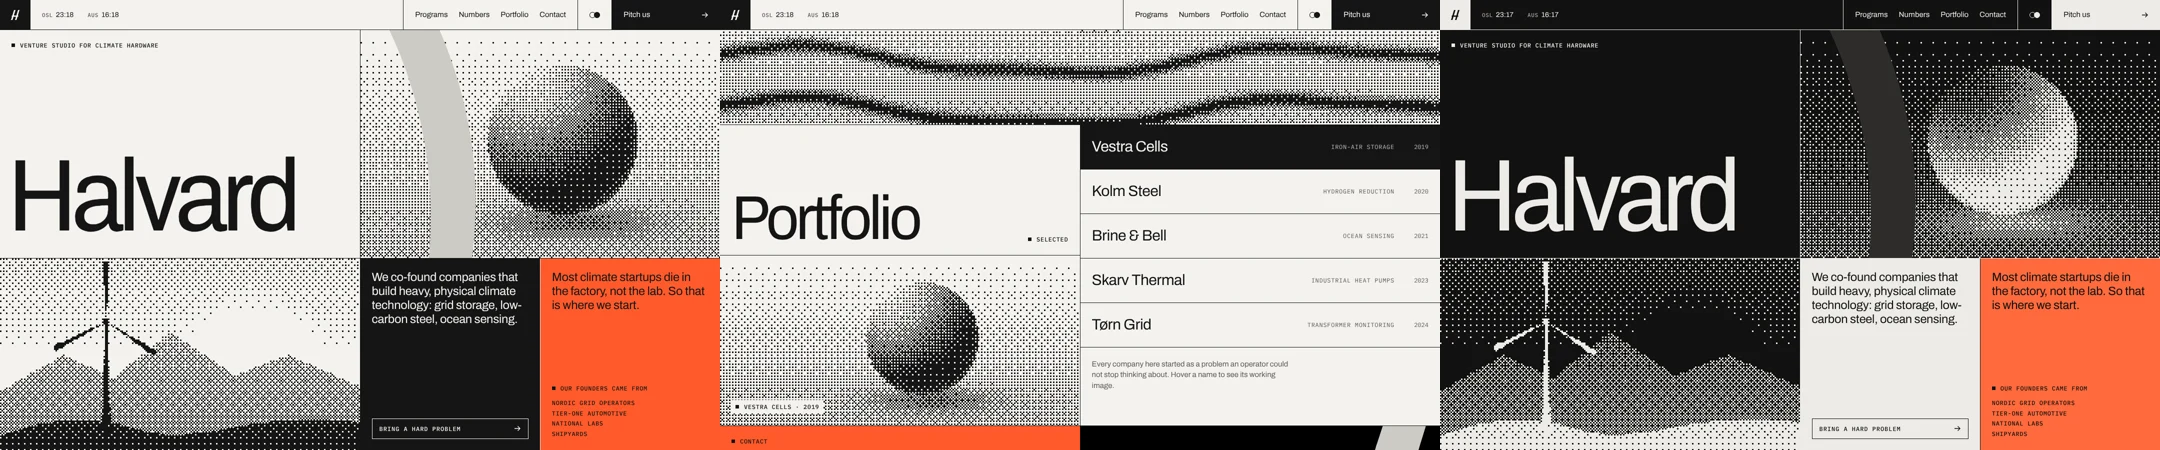
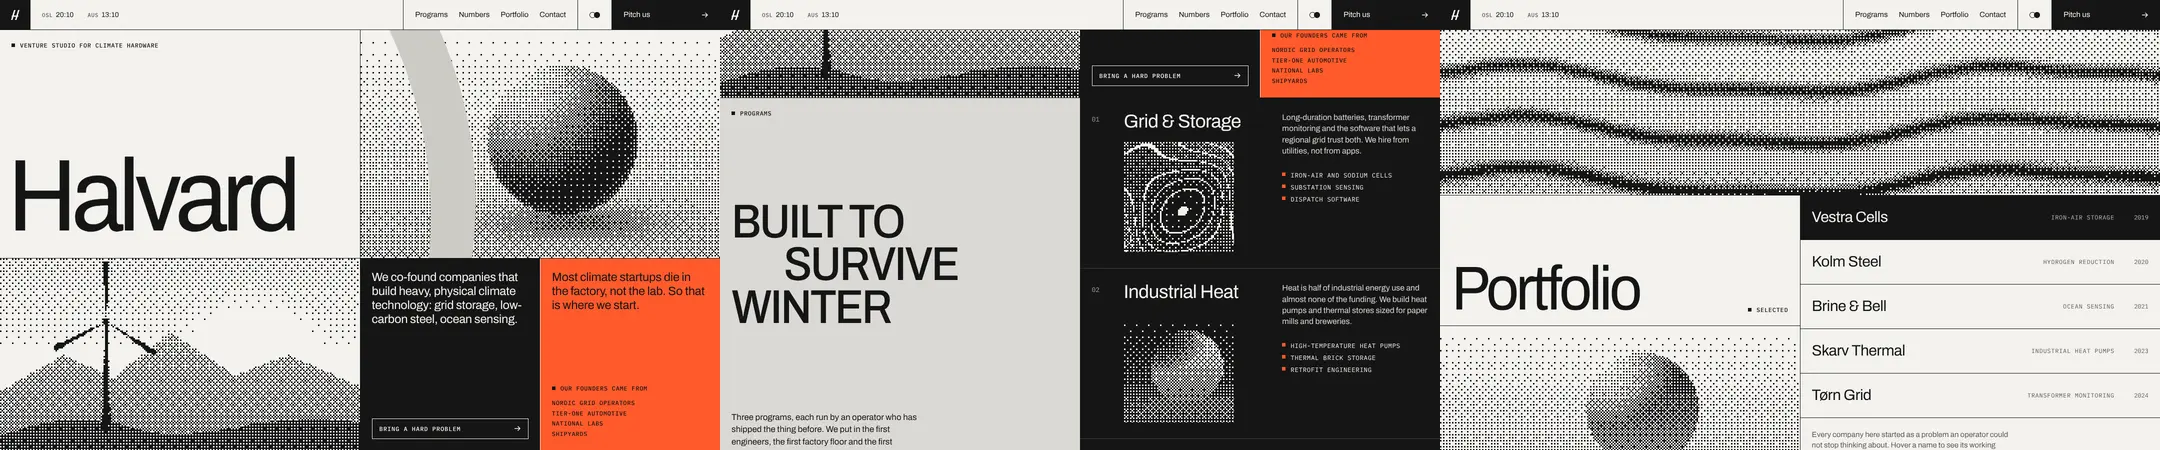
Improve dither-tile-skill: 36 → 38/40 (fallback that shows the subject)
Without canvas every tile was the same flat gray fade. A --shape mask per
field now prints dense dots on the subject (sphere, rings, swell, ridge,
dawn), so the no-JS page still reads. The ridge foreground was lifted out
of solid ink (0.04-0.16 to 0.19-0.29 luminance). SKILL.md carries the same
CSS, new notes and two new pre-flight questions.

Machine: verify-demo now loads every page under a stand-in for a host's
<body> reset and fails when any text changes color or size. It caught
the Mörkerdal dark-text bug in its old version and found the same bug in
the lesson 001 demo, fixed here. New principle: style the body, not only
the root.

Claude-Session: https://claude.ai/code/session_01XdASbRog22jE6xUYCS6WyS

diff --git a/skills/dither-tile-skill/demo/index.html b/skills/dither-tile-skill/demo/index.html
@@ -99,13 +99,23 @@
   /* ---------- Dither tile ---------- */
   .dither {
     position: relative; overflow: hidden; isolation: isolate;
-    /* No-JS / no-canvas fallback: a fading CSS halftone in the same colors */
-    background:
-      linear-gradient(to bottom, var(--paper) 0%, transparent 70%),
-      radial-gradient(circle, var(--ink) 0.8px, transparent 1.2px) 0 0 / 3px 3px;
+    /* No-JS / no-canvas fallback, part 1: a sparse halftone in the tile's own two colors */
+    background: radial-gradient(circle, currentColor 0.55px, transparent 0.85px) 0 0 / 3px 3px;
     background-color: var(--paper);
     color: var(--ink);
   }
+  /* Fallback, part 2: dense dots masked to the tile's subject, so the shape survives without canvas.
+     The canvas (z-index -1, opaque) covers all of this as soon as the engine runs. */
+  .dither::before {
+    content: ''; position: absolute; inset: 0; z-index: -2;
+    background: radial-gradient(circle, currentColor 1.15px, transparent 1.4px) 0 0 / 3px 3px;
+    -webkit-mask: var(--shape, none); mask: var(--shape, none);
+  }
+  .dither[data-field="orb"] { --shape: radial-gradient(circle closest-side at 58% 50%, #000 0 50%, rgba(0,0,0,.55) 60%, transparent 66%); }
+  .dither[data-field="swell"] { --shape: repeating-linear-gradient(176deg, transparent 0 22px, #000 28px 34px, transparent 40px 52px); }
+  .dither[data-field="contours"] { --shape: repeating-radial-gradient(circle at 46% 52%, transparent 0 9px, #000 11px 13px, transparent 15px 20px); }
+  .dither[data-field="ridge"] { --shape: linear-gradient(to bottom, transparent 0 58%, rgba(0,0,0,.6) 66%, #000 82%); }
+  .dither[data-field="dawn"] { --shape: radial-gradient(circle at 42% 66%, transparent 0 13%, rgba(0,0,0,.35) 14%, transparent 40%), linear-gradient(to bottom, transparent 0 69%, #000 71%); }
   .dither canvas {
     position: absolute; left: 0; top: 0; z-index: -1;
     image-rendering: crisp-edges; image-rendering: pixelated; /* Firefox reads the first, Chromium and Safari the second */
@@ -160,8 +170,7 @@
   .program:last-child { border-bottom: 0; }
   .program__n { font: 400 13px var(--mono); opacity: .6; padding-top: 6px; }
   .program h3 { margin: 0 0 22px; font-weight: 400; font-size: clamp(26px, 2.6vw, 38px); line-height: 1.02; letter-spacing: -.02em; }
-  .program .dither { width: min(100%, 220px); aspect-ratio: 1; background-color: var(--ink); color: var(--paper);
-    background-image: linear-gradient(to bottom, var(--ink) 0%, transparent 70%), radial-gradient(circle, var(--paper) 0.8px, transparent 1.2px); }
+  .program .dither { width: min(100%, 220px); aspect-ratio: 1; background-color: var(--ink); color: var(--paper); }
   .program p { margin: 0 0 28px; font-size: 16px; line-height: 1.4; color: color-mix(in srgb, var(--paper) 86%, transparent); }
 
   /* ---------- Numbers ---------- */
@@ -592,7 +601,7 @@ const ridgeSVG = `<svg xmlns="http://www.w3.org/2000/svg" width="800" height="60
 <defs>
 <linearGradient id="s" x1="0" y1="0" x2="0" y2="1"><stop offset="0" stop-color="#bdbdbd"/><stop offset=".6" stop-color="#f6f6f6"/></linearGradient>
 <linearGradient id="a" x1="0" y1="0" x2="0" y2="1"><stop offset="0" stop-color="#a8a8a8"/><stop offset="1" stop-color="#7a7a7a"/></linearGradient>
-<linearGradient id="b" x1="0" y1="0" x2="0" y2="1"><stop offset="0" stop-color="#2a2a2a"/><stop offset="1" stop-color="#0a0a0a"/></linearGradient>
+<linearGradient id="b" x1="0" y1="0" x2="0" y2="1"><stop offset="0" stop-color="#4a4a4a"/><stop offset="1" stop-color="#303030"/></linearGradient>
 <radialGradient id="g" cx=".5" cy=".5" r=".5"><stop offset=".35" stop-color="#fff"/><stop offset="1" stop-color="#fff" stop-opacity="0"/></radialGradient>
 </defs>
 <rect width="800" height="600" fill="url(#s)"/>

diff --git a/skills/particle-morph-skill/demo/index.html b/skills/particle-morph-skill/demo/index.html
@@ -22,7 +22,8 @@
   }
   * { box-sizing: border-box; margin: 0; }
   html { background: var(--bg); color: var(--ink); font-family: 'Geist', system-ui, sans-serif; -webkit-font-smoothing: antialiased; }
-  body { overflow-x: hidden; }
+  /* color and type on body too: a host page that styles body (an embed, an artifact viewer) must not darken the text */
+  body { overflow-x: hidden; margin: 0; color: var(--ink); font-family: 'Geist', system-ui, sans-serif; font-size: 16px; }
 
   #gl { position: fixed; inset: 0; width: 100vw; height: 100vh; display: block; pointer-events: none; }
   .fallback { position: fixed; inset: 0; background: radial-gradient(40% 40% at 60% 50%, rgba(107, 92, 255, 0.35), transparent 70%), radial-gradient(30% 30% at 55% 45%, rgba(94, 242, 194, 0.25), transparent 70%); display: none; }

diff --git a/skills/dither-tile-skill/SKILL.md b/skills/dither-tile-skill/SKILL.md
@@ -82,13 +82,23 @@ Use this skill when the brief says: "editorial", "Swiss", "technical", "engineer
 /* ---------- Dither tile ---------- */
 .dither {
   position: relative; overflow: hidden; isolation: isolate;
-  /* No-JS / no-canvas fallback: a fading CSS halftone in the same colors */
-  background:
-    linear-gradient(to bottom, var(--paper) 0%, transparent 70%),
-    radial-gradient(circle, var(--ink) 0.8px, transparent 1.2px) 0 0 / 3px 3px;
+  /* No-JS / no-canvas fallback, part 1: a sparse halftone in the tile's own two colors */
+  background: radial-gradient(circle, currentColor 0.55px, transparent 0.85px) 0 0 / 3px 3px;
   background-color: var(--paper);
   color: var(--ink);
 }
+/* Fallback, part 2: dense dots masked to the tile's subject, so the shape survives without canvas.
+   The canvas (z-index -1, opaque) covers all of this as soon as the engine runs. */
+.dither::before {
+  content: ''; position: absolute; inset: 0; z-index: -2;
+  background: radial-gradient(circle, currentColor 1.15px, transparent 1.4px) 0 0 / 3px 3px;
+  -webkit-mask: var(--shape, none); mask: var(--shape, none);
+}
+.dither[data-field="orb"] { --shape: radial-gradient(circle closest-side at 58% 50%, #000 0 50%, rgba(0,0,0,.55) 60%, transparent 66%); }
+.dither[data-field="swell"] { --shape: repeating-linear-gradient(176deg, transparent 0 22px, #000 28px 34px, transparent 40px 52px); }
+.dither[data-field="contours"] { --shape: repeating-radial-gradient(circle at 46% 52%, transparent 0 9px, #000 11px 13px, transparent 15px 20px); }
+.dither[data-field="ridge"] { --shape: linear-gradient(to bottom, transparent 0 58%, rgba(0,0,0,.6) 66%, #000 82%); }
+.dither[data-field="dawn"] { --shape: radial-gradient(circle at 42% 66%, transparent 0 13%, rgba(0,0,0,.35) 14%, transparent 40%), linear-gradient(to bottom, transparent 0 69%, #000 71%); }
 .dither canvas {
   position: absolute; left: 0; top: 0; z-index: -1;
   image-rendering: crisp-edges; image-rendering: pixelated; /* Firefox reads the first, Chromium and Safari the second */
@@ -96,13 +106,12 @@ Use this skill when the brief says: "editorial", "Swiss", "technical", "engineer
 .dither .flat { position: absolute; inset: 0; width: 100%; height: 100%; fill: var(--flat); pointer-events: none; }
 ```
 
-The fallback background is a fading CSS halftone in the same two colors. If JavaScript or the 2D context fails, the tile still looks intentional.
+Without JavaScript or a 2D context the tile still shows its subject: a sparse halftone everywhere, and dense dots masked to the field's shape (`--shape`, one line per field). A flat gray gradient would say "something failed"; a halftone sphere still says "sphere". Give every new field a `--shape` line when you add it, and look at the page once with `getContext` forced to `null`.
 
 Tiles inside dark cells set their own colors; the engine reads them, nothing else changes:
 
 ```css
-.program .dither { width: min(100%, 220px); aspect-ratio: 1; background-color: var(--ink); color: var(--paper);
-  background-image: linear-gradient(to bottom, var(--ink) 0%, transparent 70%), radial-gradient(circle, var(--paper) 0.8px, transparent 1.2px); }
+.program .dither { width: min(100%, 220px); aspect-ratio: 1; background-color: var(--ink); color: var(--paper); }
 ```
 
 ---
@@ -348,7 +357,7 @@ const ridgeSVG = `<svg xmlns="http://www.w3.org/2000/svg" width="800" height="60
 <defs>
 <linearGradient id="s" x1="0" y1="0" x2="0" y2="1"><stop offset="0" stop-color="#bdbdbd"/><stop offset=".6" stop-color="#f6f6f6"/></linearGradient>
 <linearGradient id="a" x1="0" y1="0" x2="0" y2="1"><stop offset="0" stop-color="#a8a8a8"/><stop offset="1" stop-color="#7a7a7a"/></linearGradient>
-<linearGradient id="b" x1="0" y1="0" x2="0" y2="1"><stop offset="0" stop-color="#2a2a2a"/><stop offset="1" stop-color="#0a0a0a"/></linearGradient>
+<linearGradient id="b" x1="0" y1="0" x2="0" y2="1"><stop offset="0" stop-color="#4a4a4a"/><stop offset="1" stop-color="#303030"/></linearGradient>
 <radialGradient id="g" cx=".5" cy=".5" r=".5"><stop offset=".35" stop-color="#fff"/><stop offset="1" stop-color="#fff" stop-opacity="0"/></radialGradient>
 </defs>
 <rect width="800" height="600" fill="url(#s)"/>
@@ -468,7 +477,7 @@ Row hover and keyboard focus both call `pick()`. `aria-current` marks the row wh
 
 [`demo/index.html`](demo/index.html) is a complete single-file page for an invented climate-hardware venture studio, Halvard: hero with wordmark, lit-sphere dither with a flat blade shape, an SVG landscape dithered through `fromImage`, ink and accent cells, a sticky program column with dither plates on ink, stats, a full-width swell band, a portfolio list whose rows swap the preview, and an accent contact cell. Light and dark theme, two live clocks.
 
-Verified with `node scripts/verify-demo.mjs skills/dither-tile-skill/demo` (desktop, mobile and reduced motion, no console errors, no failed requests, no horizontal overflow), plus a dark-theme and hover pass.
+Verified with `node scripts/verify-demo.mjs skills/dither-tile-skill/demo --stops 12` (desktop, phones at 360/390/430, reduced motion at every stop, forced fallback, keyboard focus, phone layout viewport, dead scroll, and a host page that styles `<body>`), plus a dark-theme, hover and no-canvas pass by hand.
 
 ![Demo preview](demo/preview.webp)
 
@@ -480,6 +489,8 @@ Lessons learned while building it (already folded into the rules above):
 - A `gap`-ruled list stretched by the grid showed a block of rule color under the last row. Lists inside a stretched cell use row borders, not gap.
 - An email link inside a grid ignored `align-self` and underlined the whole column; it needs `justify-self: start`.
 - Thin turbine blades vanished at 3px; anything that must survive the dither needs to be at least two dots thick in source pixels.
+- The ridge foreground was graded to 0.04 to 0.16 luminance and printed as a solid black band with a few holes. Lifted to 0.19 to 0.29 it reads as dark ground and keeps its texture. Check the darkest 10 percent of every source against rule 5, not only the midtones.
+- With canvas unavailable every tile used to be the same flat gray fade, which reads as broken. A `--shape` mask per field puts dense dots on the subject, so the fallback still shows a sphere, rings or a swell.
 
 ---
 
@@ -493,4 +504,5 @@ Before shipping, answer yes to all:
 4. Are the hairlines a 1px grid gap, with no doubled lines anywhere?
 5. Is there exactly one accent color, and no text sitting on dots?
 6. With reduced motion, does nothing move unless the user moves the pointer or picks a row?
-7. With JavaScript off, do the tiles still show a halftone in the right colors?
+7. With JavaScript off (or `getContext` forced to `null`), does each tile still show its subject as a halftone in the right colors?
+8. Is text color and type set on `body`, so the page looks the same inside a host that styles `body` (verify-demo's host check)?

diff --git a/lessons/PROTOCOL.md b/lessons/PROTOCOL.md
@@ -51,7 +51,7 @@ In the morning, section 1 is replaced by `NEXT.md` when its date is today and it
 node scripts/verify-demo.mjs skills/<slug>-skill/demo /tmp/verify
 ```
 
-It must print `OK`. It runs desktop, phones at 360/390/430, reduced motion at every scroll stop, and a forced-fallback pass (WebGL unavailable, `CSS.supports()` false), and fails on page errors, console errors, failed requests, horizontal overflow at any stop, and any element Tab reaches without a visible focus change. For pinned or scrubbed sections add `--stops 30`. With ImageMagick installed it writes `sheet-<pass>.jpg` contact sheets, one row per pass.
+It must print `OK`. It runs desktop, phones at 360/390/430, reduced motion at every scroll stop, and a forced-fallback pass (WebGL unavailable, `CSS.supports()` false), and fails on page errors, console errors, failed requests, horizontal overflow at any stop, any element Tab reaches without a visible focus change, a phone layout viewport wider than the phone, scroll past the end of the content, and text that changes color or size when a host page styles `<body>`. For pinned or scrubbed sections add `--stops 30`. With ImageMagick installed it writes `sheet-<pass>.jpg` contact sheets, one row per pass.
 
 Then **look at every contact sheet, including the fallback and reduced ones** and write down at least three visual flaws (overlaps, unreadable text over busy backgrounds, awkward wraps, dead space, mobile cramping, motion parked mid-transition). Fix them and verify again. Repeat until a fresh look finds nothing worth fixing. Fold what you learned into the skill's "Working Demo" notes so the next agent does not repeat it.
 
@@ -92,3 +92,4 @@ If today taught something about *how* to run these lessons (a better capture tri
 - 2026-10-08: Generated imagery needs its own render-and-look loop before it goes into the page. (The pinned-section sweep, forced `CSS.supports` fallback and mid-page reduced motion from this note are now built into verify-demo: `--stops 30`, the `fallback-*` and `*-reduced` passes.)
 - 2026-10-08 (improve): A dense sweep catches transit frames, but the bugs a visitor remembers sat at reading stops past the hero: two statements on one screen, a dark nav over a light section, a stat that was false on phones. Read every contact sheet end to end, not only the first frames. A dense sweep's 500ms wait can catch reveal animations mid-blur; judge those at the default stops.
 - 2026-10-08 (Mörkerdal demo): Two bugs passed every old check: a sideways-bleeding scrim widened the phone layout viewport (the page rendered zoomed out, `scrollWidth` stayed equal to the widened `innerWidth`), and a scrim positioned against `<main>` made the page scroll 1,900px past the footer. verify-demo now fails on both. If the last screenshots of a mobile pass look identical and empty, suspect dead scroll.
+- 2026-10-08 (improve): The new host check (page loaded under a stand-in for a viewer's body reset, every text box compared) found the same dark-text bug in the lesson 001 demo that had only shown on the owner's phone in Mörkerdal. verify-demo's forced fallback only disables WebGL; for a 2D-canvas effect, also look at the page once with `getContext` returning `null`.

diff --git a/lessons/README.md b/lessons/README.md
@@ -24,7 +24,7 @@ The full, reusable version of each lesson lives in `skills/<slug>-skill/` with a
 | # | Date | Lesson | Area | Source | Skill | Score |
 | --- | --- | --- | --- | --- | --- | --- |
 | 001 | 2026-10-07 | [Particle morph hero](2026-10-07-particle-morph-hero.md) | WebGL and 3D | getlayers.ai "Vesper" template | [`particle-morph-skill`](../skills/particle-morph-skill/SKILL.md) | 34 → 38/40 |
-| 002 | 2026-10-07 | [Dither tile grid](2026-10-07-dither-tile-grid.md) | Imagery and art direction | aspensearch.com (Awwwards SOTD, 15 Sep 2026) | [`dither-tile-skill`](../skills/dither-tile-skill/SKILL.md) | 36/40 |
+| 002 | 2026-10-07 | [Dither tile grid](2026-10-07-dither-tile-grid.md) | Imagery and art direction | aspensearch.com (Awwwards SOTD, 15 Sep 2026) | [`dither-tile-skill`](../skills/dither-tile-skill/SKILL.md) | 36 → 38/40 |
 | 003 | 2026-10-08 | [Scroll scrub story](2026-10-08-scroll-scrub-story.md) | Scroll motion | white-desert.com (Awwwards SOTD, 11 Sep 2026) | [`scroll-scrub-story-skill`](../skills/scroll-scrub-story-skill/SKILL.md) | 37/40 |
 
 ## Improvement log
@@ -32,3 +32,4 @@ The full, reusable version of each lesson lives in `skills/<slug>-skill/` with a
 | Date | Skill | Score | Biggest fix | Machine improvement |
 | --- | --- | --- | --- | --- |
 | 2026-10-08 | particle-morph-skill | 34 → 38/40 | Shapes now hold at every reading stop, with one statement per screen behind a scrim (before: two headlines over a bare, half-formed galaxy); plus a light nav over the paper section, a 2D-canvas orb still for the plate and the no-WebGL fallback, per-shape fit so the galaxy never clips at 360px, and a device-true stat | verify-demo learned reduced motion at every stop, a forced-fallback pass (no WebGL, `CSS.supports` false), 360/430 widths, overflow at every stop, a keyboard focus-visibility check, `--stops N` and contact sheets; three new principles (fixed chrome flips with sections, one statement per screen, device-true copy) and code spliced from the demo |
+| 2026-10-08 | dither-tile-skill | 36 → 38/40 | Without canvas every tile was the same gray fade; a `--shape` mask per field now prints the subject (sphere, rings, swell, ridge, dawn) as a CSS halftone. Also lifted the ridge foreground out of solid ink | verify-demo learned a host check: the page is loaded under a stand-in for a viewer's `<body>` reset and every text box is compared; it found and fixed the same dark-text bug in the lesson 001 demo. New principle: style the body, not only the root |

diff --git a/lessons/PRINCIPLES.md b/lessons/PRINCIPLES.md
@@ -20,5 +20,6 @@ Rules distilled from every lesson so far. Each one has shown up more than once, 
 ## Build
 
 10. **Same values in the skill and the demo.** The SKILL.md code is the code the demo runs. Splice code blocks from the demo file rather than retyping them; retyped code drifts (001 had a different scroll driver in the skill than in the demo).
-11. **Bleeding layers need a fence.** Scrims and glows with negative insets go inside a container with `position: relative` and `overflow-x: clip` (not `hidden`, which breaks sticky). A media query that resets `position` on that container silently moves the layer to the next positioned ancestor. (001 and Mörkerdal: zoomed-out phone layout, 1,900px of dead scroll)
-12. **Original brand, original copy, learned pattern.** Never lift code, text, assets, or prompts from the source site.
+11. **Style the body, not only the root.** Text color and type go on `body` as well as `html`: embeds and artifact viewers style `body` first, and everything that inherits turns dark on dark. verify-demo's host check fails on it. (Mörkerdal, 001)
+12. **Bleeding layers need a fence.** Scrims and glows with negative insets go inside a container with `position: relative` and `overflow-x: clip` (not `hidden`, which breaks sticky). A media query that resets `position` on that container silently moves the layer to the next positioned ancestor. (001 and Mörkerdal: zoomed-out phone layout, 1,900px of dead scroll)
+13. **Original brand, original copy, learned pattern.** Never lift code, text, assets, or prompts from the source site.
